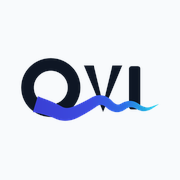
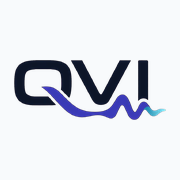
Swap in the supplied QVI lockup PNGs.
Copy the light and dark wordmarks byte-for-byte into the public logo files and rebuild the favicons from the light asset.

Changed region(s): [[0.0556, 0.3056, 0.9167, 0.6944]]

diff --git a/components/Logo.tsx b/components/Logo.tsx
@@ -7,28 +7,32 @@ type LogoProps = {
   compact?: boolean;
 };
 
-const LOGO_WIDTH = 1246;
-const LOGO_HEIGHT = 619;
+const LOGO_WIDTH = 1600;
+const LOGO_HEIGHT = 1600;
 
 export function Logo({ className, compact = false }: LogoProps) {
   return (
     <Link href="/" className={cn("qvi-logo inline-flex items-center", className)} aria-label="QVI">
-      <Image
-        src="/qvi-logo.png"
-        alt="QVI"
-        width={LOGO_WIDTH}
-        height={LOGO_HEIGHT}
-        priority
-        className={cn("qvi-logo-light w-auto object-contain", compact ? "h-8" : "h-9")}
-      />
-      <Image
-        src="/qvi-logo-on-dark.png"
-        alt=""
-        width={LOGO_WIDTH}
-        height={LOGO_HEIGHT}
-        aria-hidden
-        className={cn("qvi-logo-dark w-auto object-contain", compact ? "h-8" : "h-9")}
-      />
+      <span className={cn("qvi-logo-frame", compact ? "qvi-logo-frame-header" : "qvi-logo-frame-footer")}>
+        <Image
+          src="/qvi-logo.png"
+          alt="QVI"
+          width={LOGO_WIDTH}
+          height={LOGO_HEIGHT}
+          priority
+          unoptimized
+          className="qvi-logo-light"
+        />
+        <Image
+          src="/qvi-logo-on-dark.png"
+          alt=""
+          width={LOGO_WIDTH}
+          height={LOGO_HEIGHT}
+          unoptimized
+          aria-hidden
+          className="qvi-logo-dark"
+        />
+      </span>
     </Link>
   );
 }

diff --git a/public/brand.css b/public/brand.css
@@ -68,10 +68,25 @@ a {
   flex-shrink: 0;
 }
 
-.qvi-logo img {
+/* Source PNGs are 1600 squares. The wordmark occupies x 213–1383, y 601–1066.
+   Crop in CSS so the lockup is 2rem tall without re-encoding the file. */
+.qvi-logo-frame {
+  position: relative;
   display: block;
-  width: auto;
+  overflow: hidden;
+  flex: none;
   height: 2rem;
+  width: calc(2rem * 1170 / 465);
+}
+
+.qvi-logo-frame img {
+  position: absolute;
+  display: block;
+  max-width: none;
+  width: calc(2rem * 1600 / 465);
+  height: calc(2rem * 1600 / 465);
+  left: calc(2rem * -213 / 465);
+  top: calc(2rem * -601 / 465);
 }
 
 .qvi-logo .qvi-logo-dark {

diff --git a/app/layout.tsx b/app/layout.tsx
@@ -92,7 +92,7 @@ export default function RootLayout({
       <body className="min-h-screen font-sans">
         <script dangerouslySetInnerHTML={{ __html: localeBootScript }} />
         {/* eslint-disable-next-line @next/next/no-css-tags */}
-        <link rel="stylesheet" href="/brand.css?v=11" />
+        <link rel="stylesheet" href="/brand.css?v=12" />
         <AppProviders>
           <div className="qvi-shell flex min-h-screen flex-col">
             <Header />
